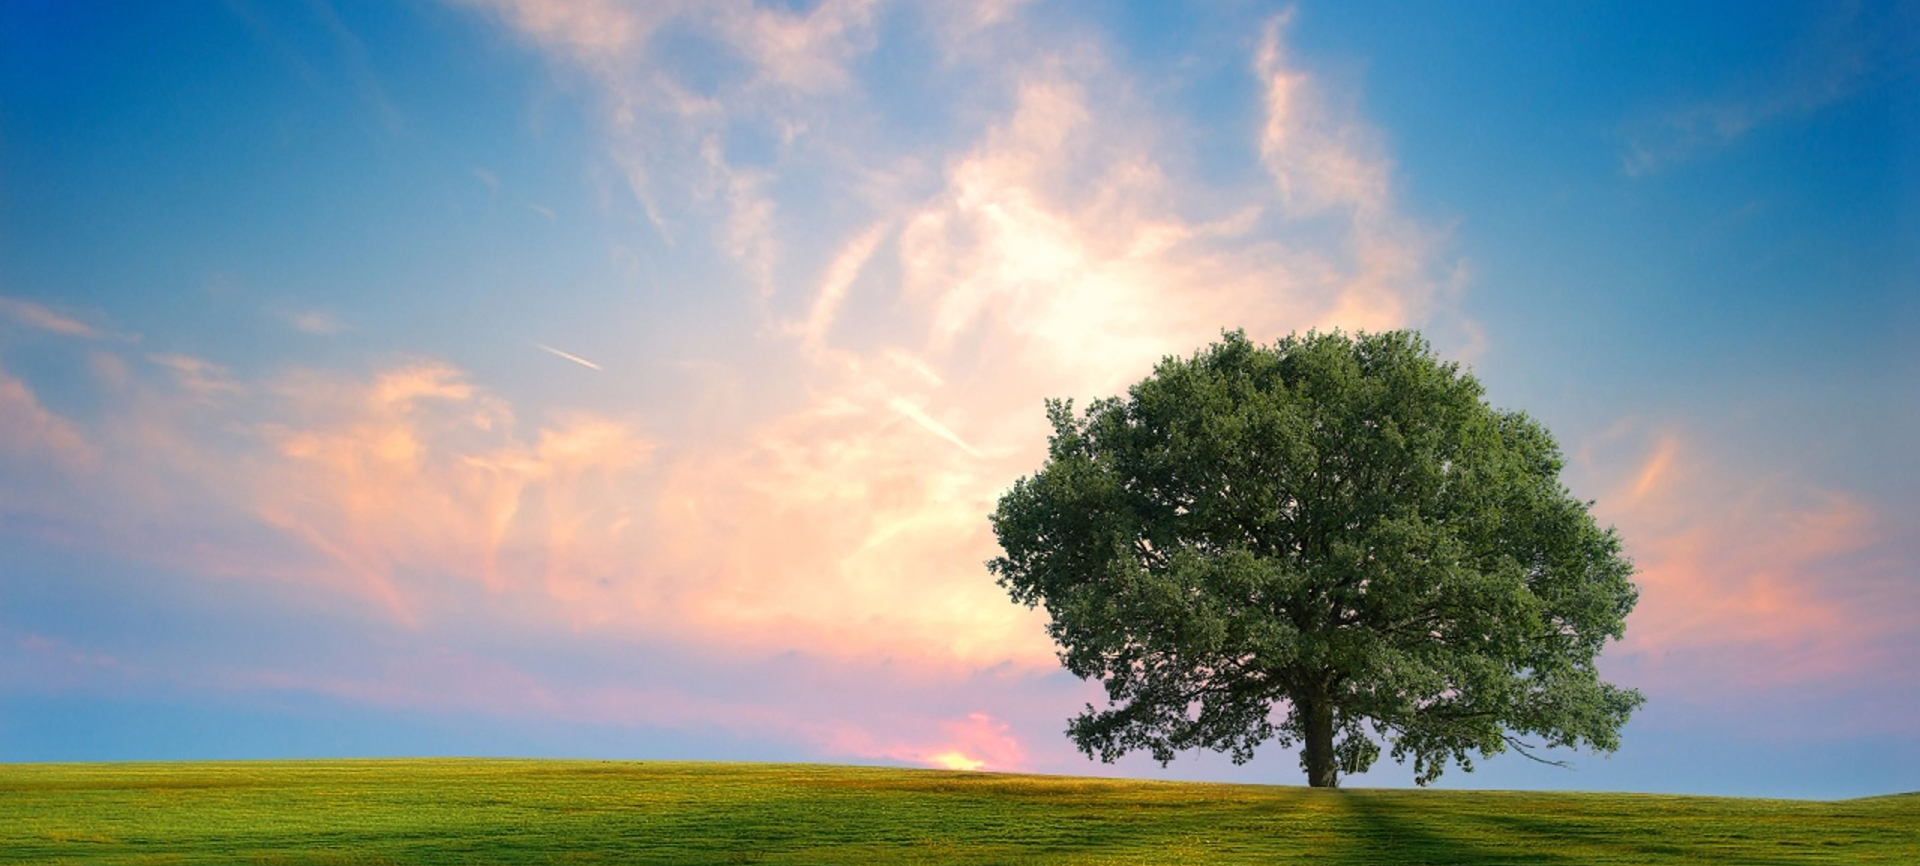
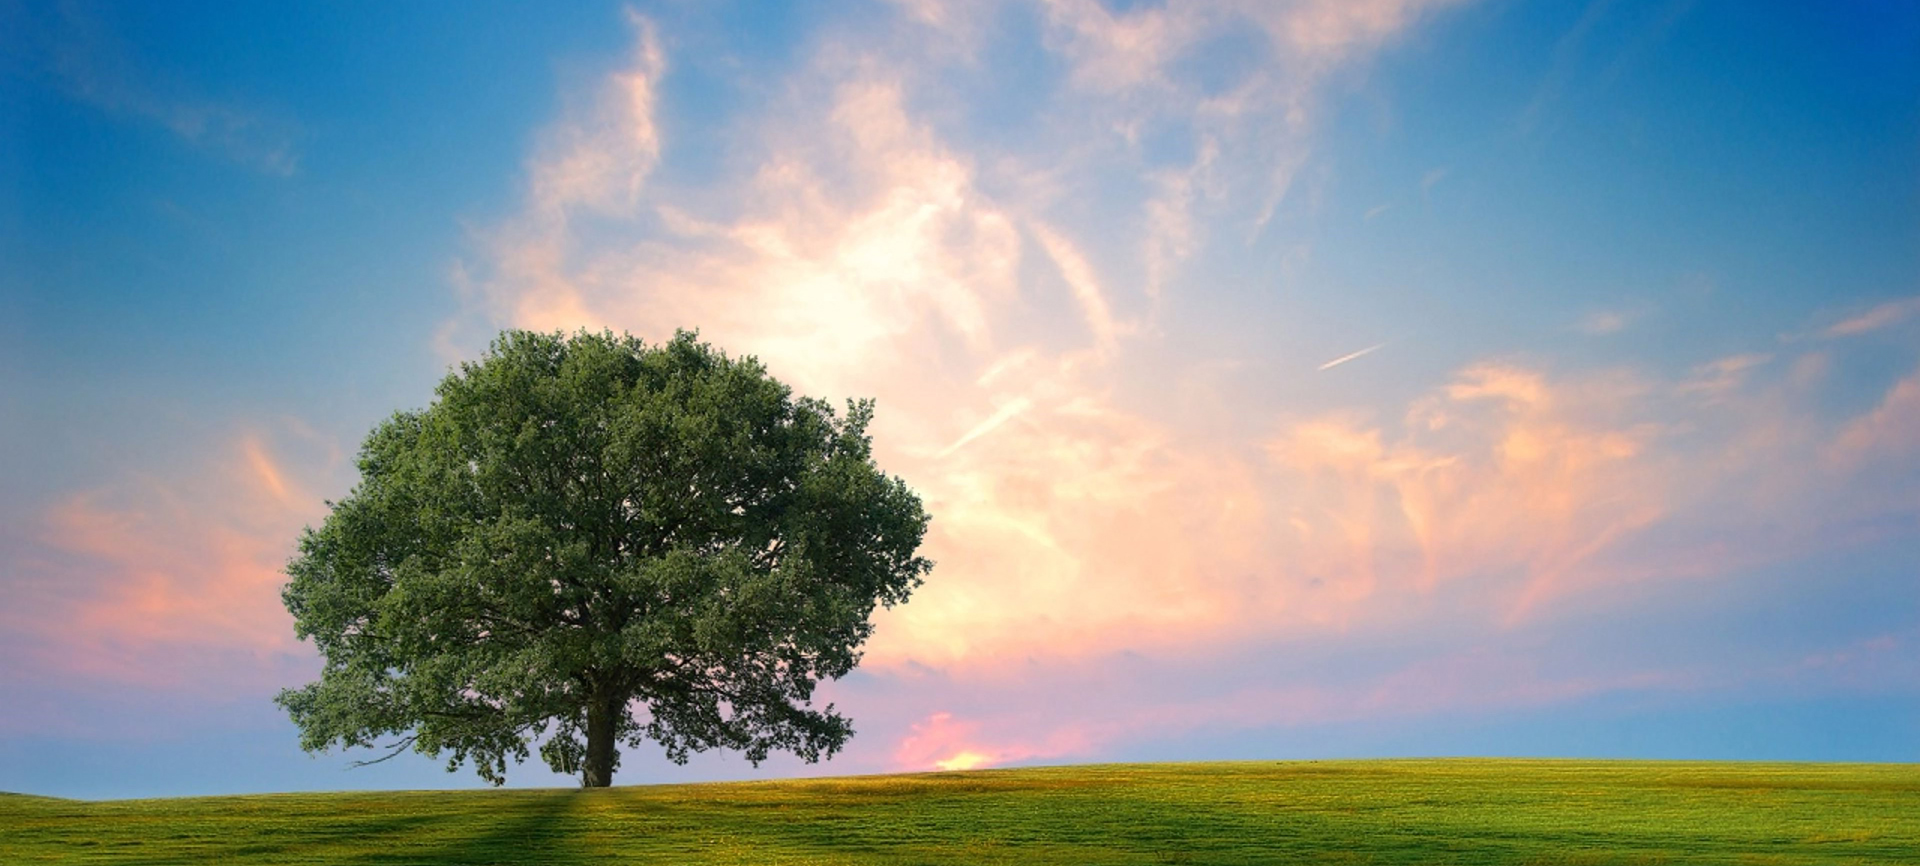
add

diff --git a/css/style.css b/css/style.css
@@ -3464,7 +3464,6 @@ body {
 
 .footer__up {
   background-image: url(../../../img/contact@x1.jpg);
-  background-position: top;
   background-repeat: no-repeat;
   background-size: cover; }
   @media screen and (-webkit-min-device-pixel-ratio: 2), screen and (-o-min-device-pixel-ratio: 2/1), screen and (min-resolution: 2dppx) {

diff --git a/src/SCSS/blocks/_footer.scss b/src/SCSS/blocks/_footer.scss
@@ -1,7 +1,7 @@
 .footer {
     &__up {
         background-image: url(../../../img/contact@x1.jpg);
-        background-position: top;
+        // background-position: top ;
         background-repeat: no-repeat;
         background-size: cover; 
 
